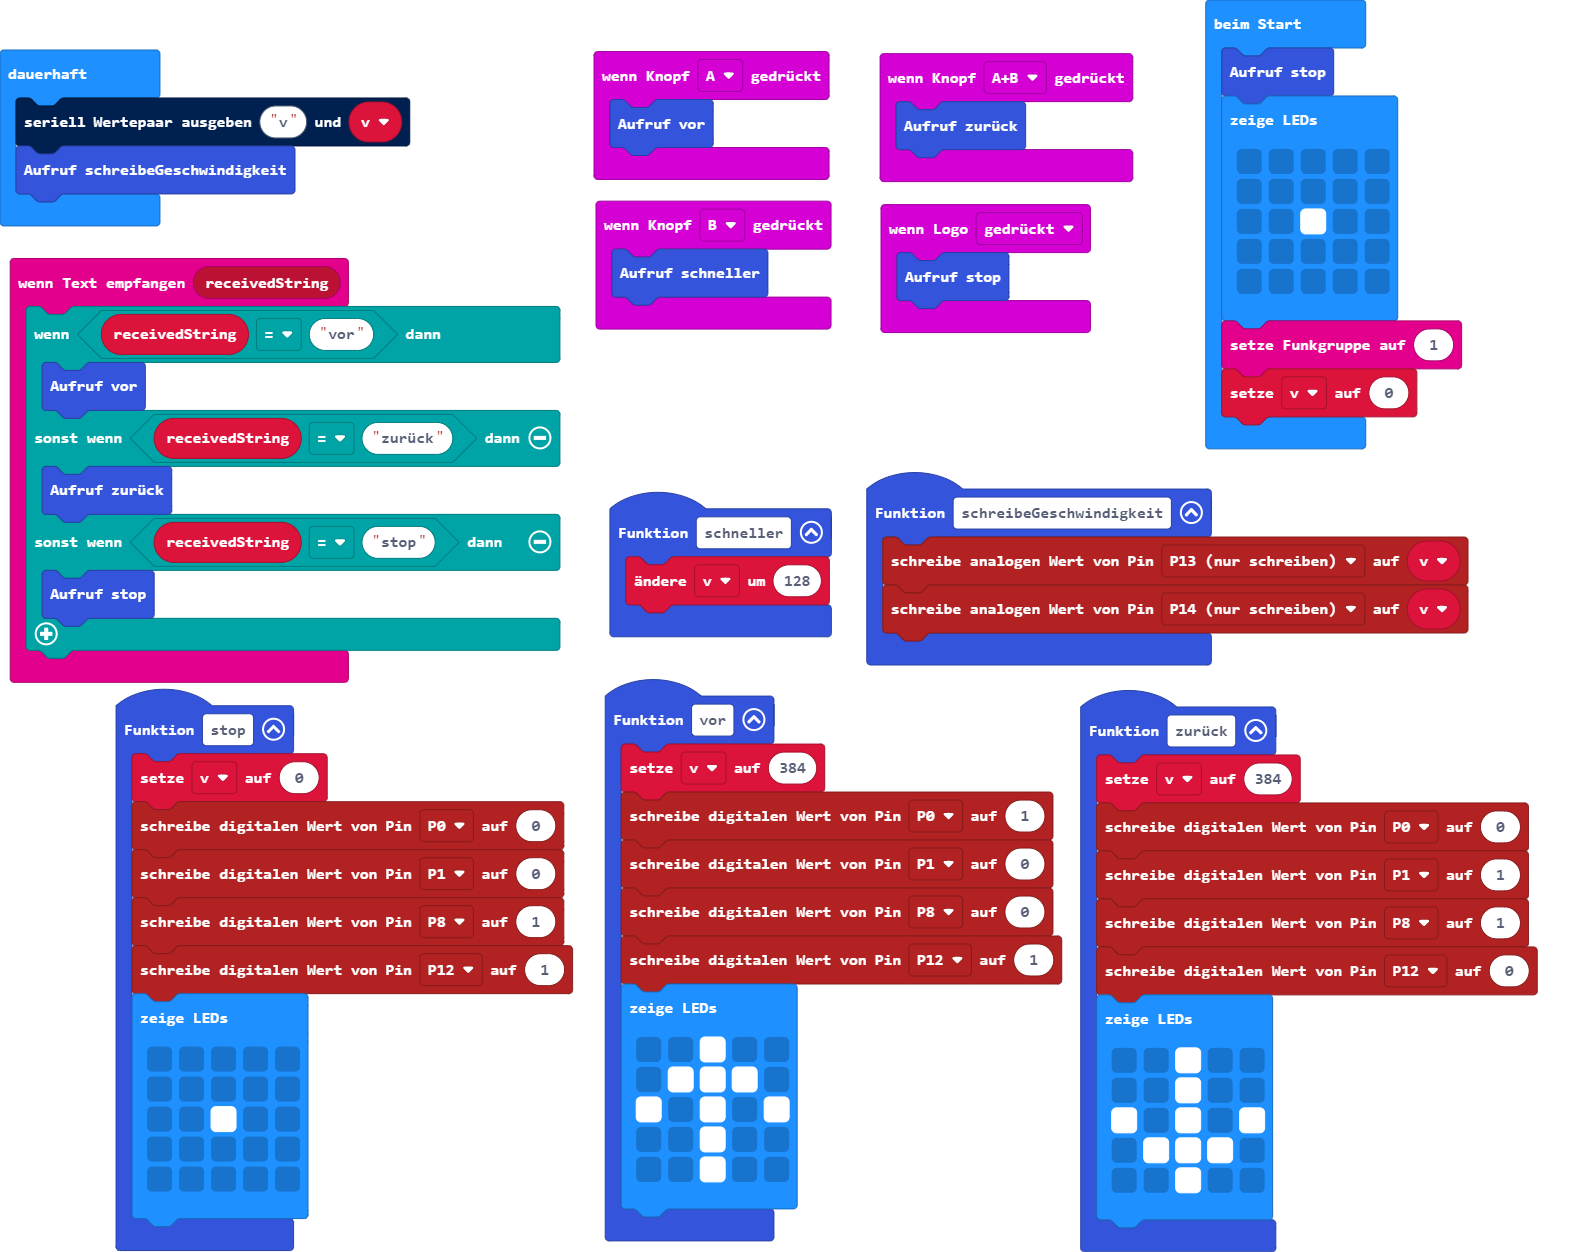
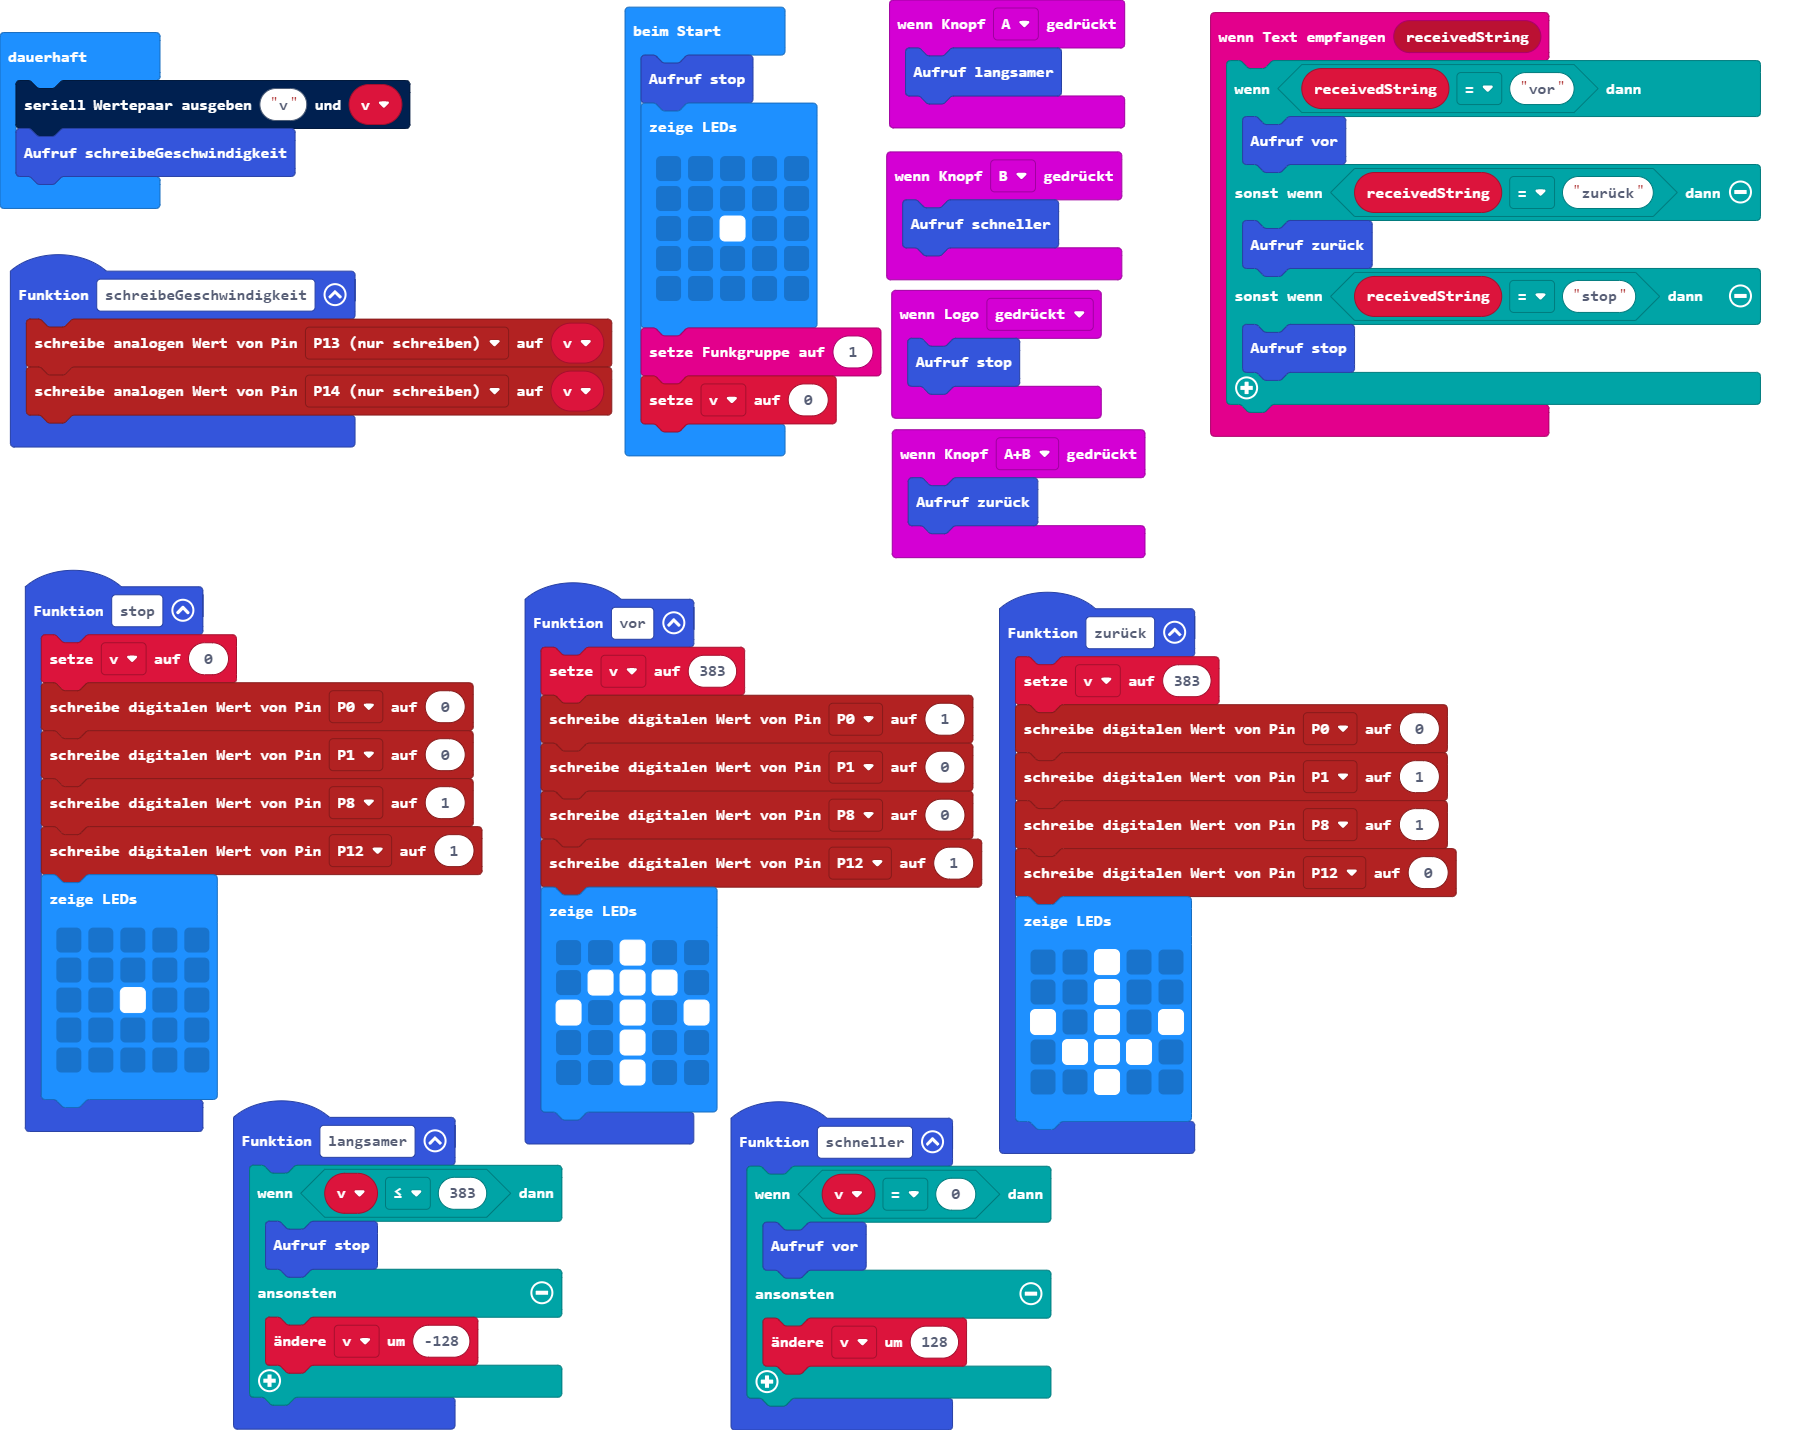
Langsamer, Start mit schneller

diff --git a/main.ts b/main.ts
@@ -2,10 +2,14 @@ input.onLogoEvent(TouchButtonEvent.Pressed, function () {
     stop()
 })
 function schneller () {
-    v += 128
+    if (v == 0) {
+        vor()
+    } else {
+        v += 128
+    }
 }
 function vor () {
-    v = 384
+    v = 383
     pins.digitalWritePin(DigitalPin.P0, 1)
     pins.digitalWritePin(DigitalPin.P1, 0)
     pins.digitalWritePin(DigitalPin.P8, 0)
@@ -33,10 +37,10 @@ function stop () {
         `)
 }
 input.onButtonPressed(Button.A, function () {
-    vor()
+    langsamer()
 })
 function zurück () {
-    v = 384
+    v = 383
     pins.digitalWritePin(DigitalPin.P0, 0)
     pins.digitalWritePin(DigitalPin.P1, 1)
     pins.digitalWritePin(DigitalPin.P8, 1)
@@ -64,6 +68,13 @@ radio.onReceivedString(function (receivedString) {
 input.onButtonPressed(Button.B, function () {
     schneller()
 })
+function langsamer () {
+    if (v <= 383) {
+        stop()
+    } else {
+        v += -128
+    }
+}
 function schreibeGeschwindigkeit () {
     pins.analogWritePin(AnalogPin.P13, v)
     pins.analogWritePin(AnalogPin.P14, v)
